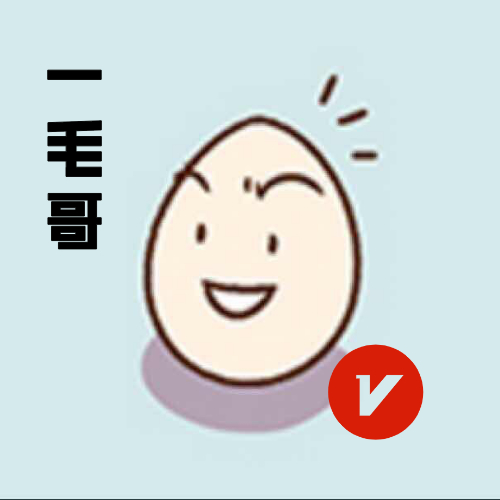
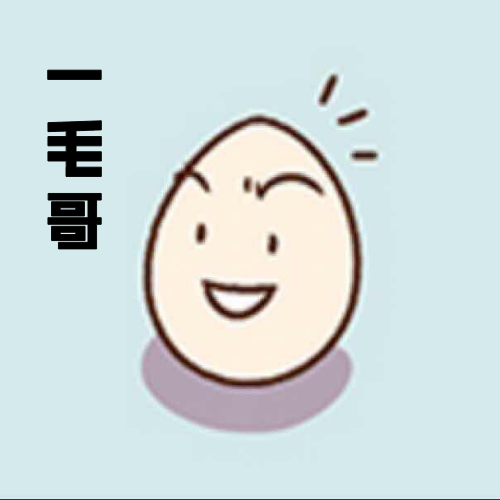
Fix style

Changed region(s): [[0.63, 0.69, 0.87, 0.9]]

diff --git a/src/popup/router/pages/About.vue b/src/popup/router/pages/About.vue
@@ -10,6 +10,13 @@
         height="8rem"
         :src="AvatarImage"
       />
+      <van-image
+        class="about-vip-mark"
+        round
+        width="1.5rem"
+        height="1.5rem"
+        :src="VipMarkImage"
+      />
       <span>小特社区 - 插件版</span>
     </div>
 
@@ -18,14 +25,13 @@
       <span>代码：<a href="https://github.com/lndj/chrome-xiaote" target="_blank">https://github.com/lndj/chrome-xiaote</a></span>
       <span style="font-size: 16px;">使用我的 Tesla 推荐码购车，你我均可获得 1500KM 的免费超充额度，邀请链接：<br /><br /> <a href="https://ts.la/lnanddj59482" target="_blank">点我去购买（lnanddj59482）</a></span>
     </div>
-
-    <!-- <div style="height:46px;"></div> -->
   </div>
 </template>
 
 <script>
 import { mapGetters } from 'vuex';
 import AvatarImage from '@/assets/images/avatar.jpeg';
+import VipMarkImage from '@/assets/images/vipMark.png';
 
 
 export default {
@@ -33,6 +39,7 @@ export default {
   data() {
     return {
       AvatarImage: AvatarImage,
+      VipMarkImage: VipMarkImage,
     };
   },
   created() {
@@ -70,6 +77,12 @@ span {
   margin-top: 20px;
   background-color: #fff;
   padding: 20px;
+}
+.about-vip-mark {
+    margin-left: -30px;
+    position: absolute;
+    z-index: 9999;
+    margin-top: 100px;
 }
 a {
   color: rgba(10, 90, 200, 0.6);

diff --git a/src/popup/router/pages/Recommend.vue b/src/popup/router/pages/Recommend.vue
@@ -186,59 +186,5 @@ export default {
 </script>
 
 <style lang="scss">
-.van-info {
-  background-color: #9a9797 !important;
-}
-.comment-content {
-  margin: 12px 10px 12px 20px;
-  font-size: 14px;
-}
-.commont-img {
-  margin-left: 20px;
-  width: 100%;
-}
-.commont-img-box {
-  width: 400px;
-  height: 180px;
-  overflow-x: hidden;
-  overflow-y: hidden;
-  margin-bottom: 10px;
-  text-align: center;
-}
-.comment-icon {
-  float: right;
-}
-.like-icon {
-  display: inline;
-}
-.load-more-btn {
-  margin-top: 10px;
-  margin-bottom: 10px;
-  text-align: center;
-}
-.panel-header {
-  margin-left: 8px;
-}
-.panel-header-nickname {
-  font-size: 14px;
-  vertical-align: middle;
-  margin-left: -30px;
-  margin-top: 3px;
-}
-.panel-header-tag {
-  margin-left: -30px;
-  margin-top: -13px;
-  color: gray;
-}
-.follow-btn {
-  margin-top: 12.5px;
-}
-.panel-footer {
-  margin-top: 3px;
-}
-.time-label {
-  color: #969799;
-  font-size: 12px;
-  line-height: 18px;
-}
+
 </style>

diff --git a/src/popup/router/pages/Index.vue b/src/popup/router/pages/Index.vue
@@ -69,11 +69,6 @@
     </center>
     <div style="height:56px;"></div>
 
-    <!-- <div style="height:56px;"></div>
-    <van-tabbar v-model="active">
-      <van-tabbar-item icon="star-o" @click="clickTab">推荐</van-tabbar-item>
-      <van-tabbar-item icon="home-o" @click="clickTab">社区</van-tabbar-item>
-    </van-tabbar> -->
   </div>
 </template>
 
@@ -228,9 +223,11 @@ export default {
 }
 .comment-icon {
   float: right;
+  margin-top: 10%;
 }
 .like-icon {
   display: inline;
+  margin-top: 10%;
 }
 .load-more-btn {
   margin-top: 10px;
@@ -261,5 +258,6 @@ export default {
   color: #969799;
   font-size: 12px;
   line-height: 18px;
+  margin-top: 1%;
 }
 </style>

diff --git a/src/popup/router/pages/Comments.vue b/src/popup/router/pages/Comments.vue
@@ -1,5 +1,5 @@
 <template>
-  <div>
+  <div class="comments-containner">
     <van-nav-bar title="小特社区" :fixed="true" left-arrow @click-left="onClickLeft" />
     <div style="height:46px;"></div>
     <van-panel class="content-pannel">
@@ -180,6 +180,7 @@ export default {
   font-size: 20px;
   margin-left: 10px;
   margin-top: 12px;
+  margin-bottom: -6px;
 }
 .comments-content {
   margin-top: 20px;
@@ -199,7 +200,7 @@ export default {
   margin-left: 25px;
   margin-top: 10px;
   margin-right: 10px;
-  background-color: #fafafa;
+  background-color: #f1f1f7;;
   padding: 6px;
   border-radius: 8px;
 }

diff --git a/src/popup/App.vue b/src/popup/App.vue
@@ -97,13 +97,15 @@ export default {
 </script>
 
 <style>
-.container {
-  width: 414px;
-  height: 736px;
+body {
+  background-color: #f7f8fa;
   margin: 0;
   color: #323233;
   font-family: PingFang SC, 'Helvetica Neue', Arial, sans-serif;
-  background-color: #f7f8fa;
   -webkit-font-smoothing: antialiased;
+}
+.container {
+  width: 414px;
+  height: 736px;
 }
 </style>

diff --git a/src/popup/popup.html b/src/popup/popup.html
@@ -15,7 +15,6 @@
   </style>
 </head>
 <body ontouchstart>
-  <!-- <iframe width="900px" height="1200px" src="https://youzan.github.io/vant/#/en-US/image-preview#show-close-icon" frameborder="0"></iframe> -->
   <div id="app">
 
   </div>
